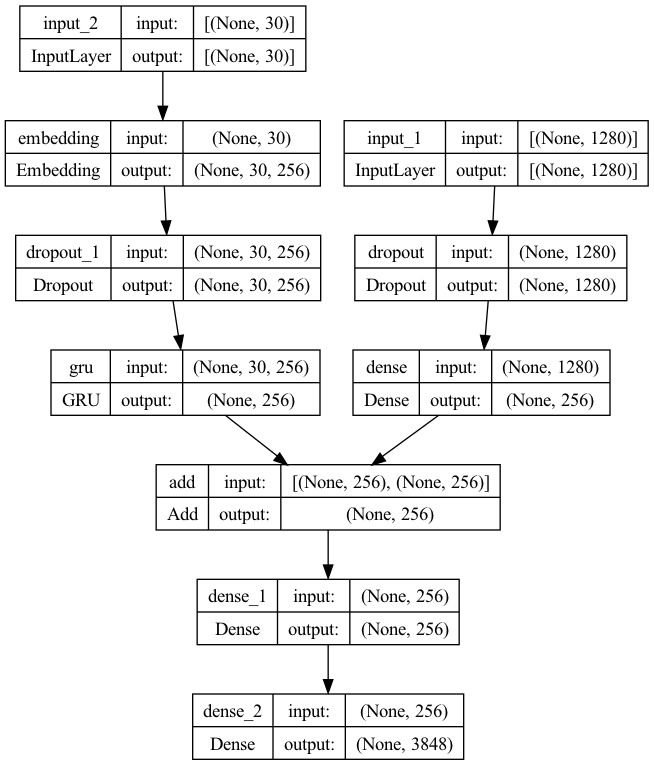
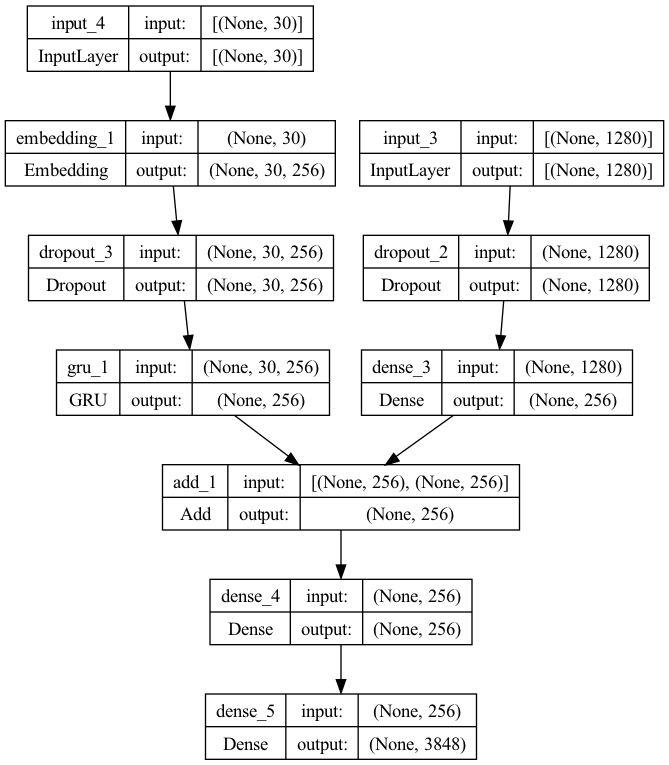
update

Changed region(s): [[0.0, 0.0, 1.0, 0.6915], [0.2752, 0.6915, 0.7339, 0.9922]]

diff --git a/Image Captioning/captioning_models.py b/Image Captioning/captioning_models.py
@@ -15,7 +15,8 @@ def define_model(vocab_size, max_length):
     inputs2 = Input(shape=(max_length,))
     se1 = Embedding(vocab_size, 256, mask_zero=True)(inputs2)
     se2 = Dropout(0.5)(se1)
-    se3 = GRU(256)(se2)
+    se3 = GRU(256, return_sequences=True)(se2)
+    se3 = GRU(256)(se3)
     # decoder model
     decoder1 = Add()([fe2,se3])
     decoder2 = Dense(256, activation='relu')(decoder1)
@@ -26,5 +27,5 @@ def define_model(vocab_size, max_length):
     model.compile(loss='categorical_crossentropy', optimizer='adam')
     # summarize model
     model.summary()
-    plot_model(model, to_file='model_EfficientNetV2M_gru1.png', show_shapes=True)
+    plot_model(model, to_file='model_EfficientNetV2M_gru2.png', show_shapes=True)
     return model

diff --git a/Image Captioning/Training.py b/Image Captioning/Training.py
@@ -50,7 +50,7 @@ X1test, X2test, y_test = create_sequences(tokenizer, max_length, val_description
 #%% Define model
 model = define_model(vocab_size, max_length)
 # define checkpoint callback
-checkpoint = ModelCheckpoint('model_EfficientNetV2M_gru1.h5', monitor='val_loss', verbose=1, save_best_only=True, mode='min')
+checkpoint = ModelCheckpoint('model_EfficientNetV2M_gru2.h5', monitor='val_loss', verbose=1, save_best_only=True, mode='min')
 # fit model
 with tensorflow.device('/cpu:0'):
     model.fit([X1train, X2train], y_train, epochs=20, verbose=1, callbacks=[checkpoint], validation_data=([X1test, X2test], y_test))

diff --git a/Image Captioning/Testing.py b/Image Captioning/Testing.py
@@ -24,7 +24,7 @@ with open('tokenizer_maxlength.pkl', 'rb') as f:
     tokenizer, max_length = load(f)
 
 # Load captioning model
-model = load_model('model_EfficientNetV2M_gru1.h5')
+model = load_model('model_EfficientNetV2M_gru2.h5')
 
 with tf.device('/cpu:0'):
     description = generate_desc(model, tokenizer, feature, max_length)

diff --git a/Image Captioning/Evaluation.py b/Image Captioning/Evaluation.py
@@ -20,7 +20,7 @@ test_features = load_photo_features('features_EfficientNetV2M.pkl', test)
 print(f'Photos: train= {len(test_features)}')
 
 #%% Load the model
-filename = 'model_EfficientNetV2M_gru1.h5'
+filename = 'model_EfficientNetV2M_gru2.h5'
 model = load_model(filename)
 # evaluate model
 with tf.device('/cpu:0'):
